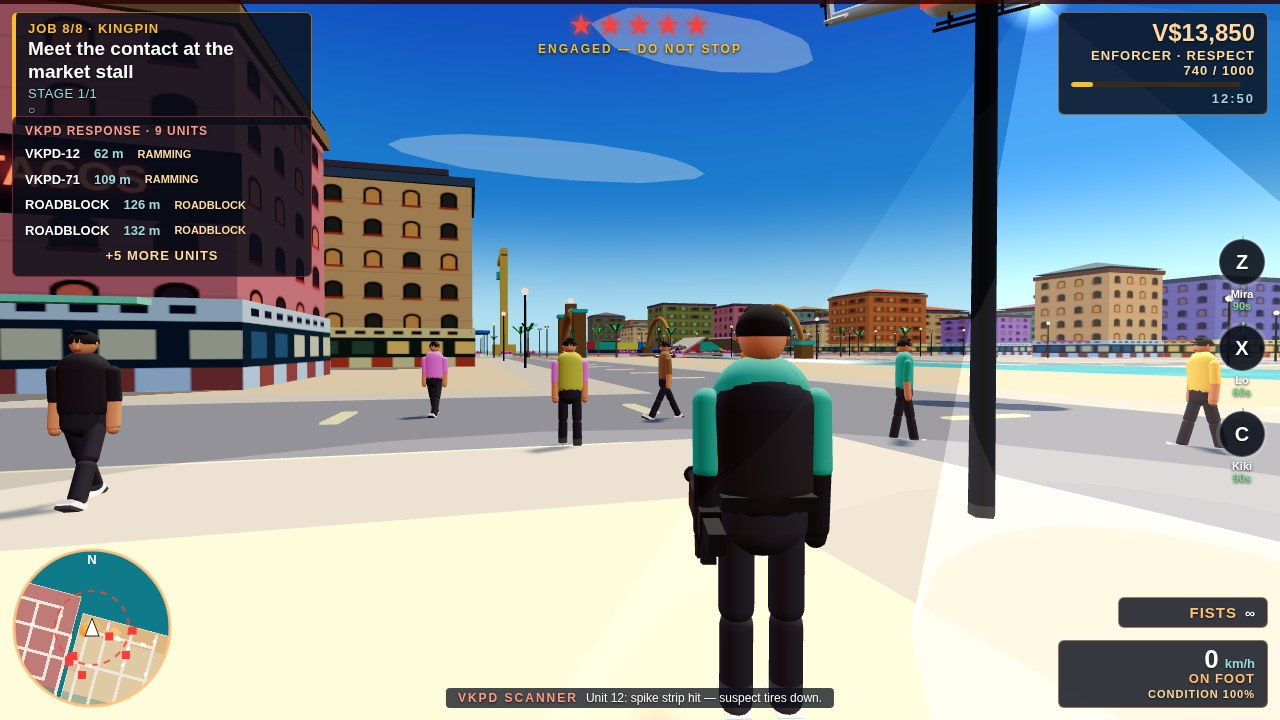
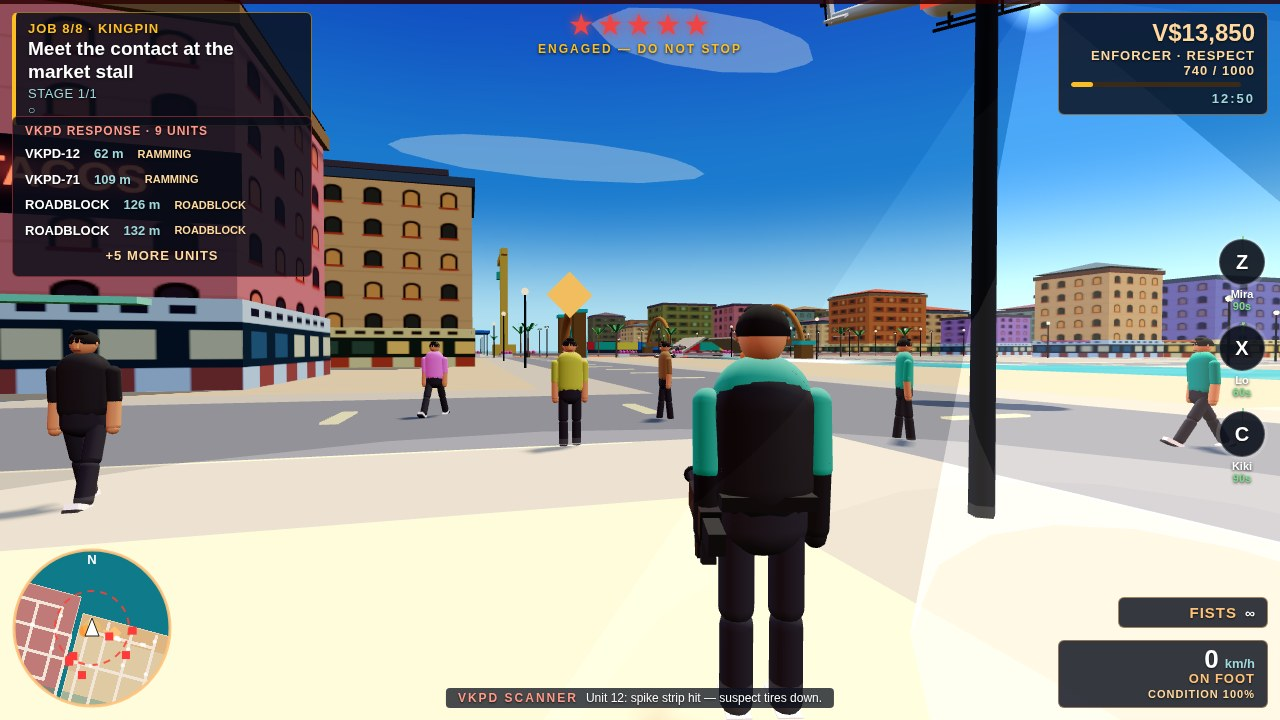
Map frame replaces career dashboard as third shot; on-foot contact re-captured
- screenshots/3-career.jpg is now the full-screen island map
  (coastline, 8 districts, gold MARKET -> PORT route along real graph
  edges, safehouse/garage markers, player at the market) — the C1 fix
  for blind re-test 9 (0-4, C1 4-0). Career evidence stays in the
  header stats (74.5% COMPLETE, ENFORCER, V$13,850) and the HUD of
  the other frames. The garage frame is untouched.
- milestones/on-foot-market.jpg re-captured at the contact-response
  moment: only the contact wears yellow (de-yellow sweep recolours
  any other yellow shirt), the contact's shirt is uniformly yellow
  (torso + arms), and a gold diamond floats above the contact's head
  as the interaction cue.
- game/src/shots.js: new 'map' branch (baked minimap tile drawn
  full-screen + district labels + route + markers; no new map
  renderer), on-foot de-yellow sweep + gold marker.
- Verify 43 PASS / 3 FAIL (same pre-existing fails, no regression).

diff --git a/game/src/shots.js b/game/src/shots.js
@@ -48,6 +48,10 @@
 //      exploration beyond driving, with the harbour on a clearer angle.
 //      The parked run car stays at the kerb behind the player; the
 //      camera is combatPose, the established on-foot third-person chase.
+//   7. map — THE MAP (third packaged shot, replaces the career
+//      dashboard): the whole archipelago full-screen — coastline,
+//      districts, a gold market-to-port route, safehouse/garage
+//      markers, the player at the market. The C1 fix.
 // The cover frame shows dialogue (Marco's KINGPIN line, pinned by
 // missionComms); the other frames clear it, so they read as pictures,
 // not chat logs.
@@ -63,6 +67,12 @@ import { fireProfileShot } from './systems/combat/tracers.js';
 // camera poses, all computed from the real sim pose.
 import { installAtmosphere } from './look/sunsetAtmosphere.js';
 import { coverPose, combatPose, garagePose } from './look/cinematicCamera.js';
+// MAP SHOT (C1 fix, 2026-11-23) — the baked minimap tile + district
+// data, reused full-screen; no new map renderer is invented.
+import { bakeMinimap } from './ui/minimapBaked.js';
+import { districtRects, MAP_MARKERS } from './world/cityLayout.js';
+import { buildViewModel } from './ui/viewModel.js';
+import { MAP_BOUNDS } from './ui/hudStyles.js';
 
 // FIX ROUND 7 — screen-space overlap check (plan requirement): project
 // the 8 corners of each car's world AABB to NDC and return the
@@ -88,6 +98,218 @@ function screenOverlap(g, a, b) {
   const oy = Math.max(0, Math.min(A.y1, B.y1) - Math.max(A.y0, B.y0));
   const areaA = (A.x1 - A.x0) * (A.y1 - A.y0);
   return areaA > 0 ? (ox * oy) / areaA : 0;
+}
+
+// ON-FOOT — a ped's shirt colour and a whole-shirt recolour. The
+// torso capsule and the upper-arm capsules share one shirt material,
+// so recolouring the torso alone leaves the arms the old colour.
+// Find that material from the torso capsule (the largest capsule in
+// the torso) and replace it on every mesh that shares it.
+function shirtColor(ped) {
+  const rig = ped.mesh && ped.mesh.userData && ped.mesh.userData.rig;
+  const torso = rig && rig.joints && rig.joints.torso;
+  if (!torso) return null;
+  let col = null;
+  torso.traverse((o) => {
+    if (col === null && o.isMesh && o.geometry && o.geometry.type === 'CapsuleGeometry' &&
+      o.geometry.parameters && o.geometry.parameters.radius > 0.1 &&
+      o.material && o.material.color) {
+      col = o.material.color.getHex();
+    }
+  });
+  return col;
+}
+function setShirtColor(ped, color) {
+  const rig = ped.mesh && ped.mesh.userData && ped.mesh.userData.rig;
+  const torso = rig && rig.joints && rig.joints.torso;
+  if (!torso) return false;
+  let shirtMat = null;
+  torso.traverse((o) => {
+    if (!shirtMat && o.isMesh && o.geometry && o.geometry.type === 'CapsuleGeometry' &&
+      o.geometry.parameters && o.geometry.parameters.radius > 0.1 &&
+      o.material && o.material.color) {
+      shirtMat = o.material;
+    }
+  });
+  if (!shirtMat) return false;
+  const mat = new THREE.MeshLambertMaterial({ color });
+  torso.traverse((o) => {
+    if (o.isMesh && o.material === shirtMat) o.material = mat;
+  });
+  return true;
+}
+
+// ON-FOOT (C1 follow-up) — if a ped's shirt is the contact yellow,
+// give them a non-yellow shirt. Returns true when a yellow shirt
+// was found and recoloured.
+function deYellow(ped, color) {
+  if (shirtColor(ped) !== 0xe8c93a) return false;
+  return setShirtColor(ped, color);
+}
+
+// MAP SHOT (C1 fix) — the market-to-port route along real graph edges:
+// market plaza -> Ocean Drive -> Marina Blvd -> drawbridge causeway ->
+// port road -> the container truck at the port.
+const MAP_ROUTE = [
+  [115, 125], [140, 125], [140, 110], [200, 110], [200, 0],
+  [230, 0], [250, 0], [250, -160], [300, -160], [380, -160], [380, -150],
+];
+const MAP_PORT = [380, -150];
+const MAP_MARKET = [115, 125];
+
+// Draw the whole of the Keys onto a canvas: the baked minimap tile
+// (water, islands, district tints, causeways, the real road graph)
+// scaled to fit, then district labels, the gold market-to-port route,
+// the safehouse/garage markers and the player arrow. No new map
+// renderer — the base is the existing baked tile, the overlays use
+// the same data and colours as the career map and the HUD minimap.
+function drawFullMap(canvas, game) {
+  const ctx = canvas.getContext('2d');
+  const W = canvas.width;
+  const H = canvas.height;
+  const minX = MAP_BOUNDS[0];
+  const minZ = MAP_BOUNDS[1];
+  const maxX = MAP_BOUNDS[2];
+  const maxZ = MAP_BOUNDS[3];
+  const worldW = maxX - minX;
+  const worldH = maxZ - minZ;
+  const scale = Math.min(W / worldW, H / worldH);
+  const ox = (W - worldW * scale) / 2 - minX * scale;
+  const oy = (H - worldH * scale) / 2 - minZ * scale;
+  const X = (x) => ox + x * scale;
+  const Z = (z) => oy + z * scale;
+  // Base: the baked tile's world region, scaled to the canvas.
+  const b = bakeMinimap();
+  ctx.drawImage(
+    b.canvas,
+    b.ox + minX * b.scale, b.oy + minZ * b.scale,
+    worldW * b.scale, worldH * b.scale,
+    X(minX), Z(minZ), worldW * scale, worldH * scale,
+  );
+  // District outlines + labels.
+  ctx.textAlign = 'center';
+  ctx.textBaseline = 'middle';
+  for (const d of districtRects()) {
+    ctx.strokeStyle = 'rgba(255, 255, 255, 0.28)';
+    ctx.lineWidth = 1;
+    ctx.strokeRect(X(d[2]), Z(d[3]), (d[4] - d[2]) * scale, (d[5] - d[3]) * scale);
+    ctx.font = 'bold 17px Arial';
+    ctx.lineWidth = 4;
+    ctx.strokeStyle = 'rgba(10, 25, 35, 0.85)';
+    ctx.strokeText(d[1], X(d[7]), Z(d[8]));
+    ctx.fillStyle = 'rgba(255, 233, 201, 0.95)';
+    ctx.fillText(d[1], X(d[7]), Z(d[8]));
+  }
+  // Gold route: dark under-stroke for contrast, then the gold line,
+  // then small chevrons along each leg pointing the way.
+  const route = (width, style) => {
+    ctx.strokeStyle = style;
+    ctx.lineWidth = width;
+    ctx.lineJoin = 'round';
+    ctx.lineCap = 'round';
+    ctx.beginPath();
+    MAP_ROUTE.forEach(([x, z], i) => {
+      if (i === 0) ctx.moveTo(X(x), Z(z));
+      else ctx.lineTo(X(x), Z(z));
+    });
+    ctx.stroke();
+  };
+  route(9, 'rgba(15, 20, 25, 0.85)');
+  route(5, '#ffc27a');
+  for (let i = 0; i < MAP_ROUTE.length - 1; i++) {
+    const [ax, az] = MAP_ROUTE[i];
+    const [bx, bz] = MAP_ROUTE[i + 1];
+    const mx = (ax + bx) / 2;
+    const mz = (az + bz) / 2;
+    const ang = Math.atan2(bz - az, bx - ax);
+    ctx.save();
+    ctx.translate(X(mx), Z(mz));
+    ctx.rotate(ang);
+    ctx.fillStyle = '#ffc27a';
+    ctx.beginPath();
+    ctx.moveTo(7, 0);
+    ctx.lineTo(-5, -6);
+    ctx.lineTo(-5, 6);
+    ctx.closePath();
+    ctx.fill();
+    ctx.restore();
+  }
+  // Markers: safehouse + garage from the career map data, the market
+  // start and the port destination.
+  const dot = (x, z, r, color, label, dy) => {
+    ctx.fillStyle = color;
+    ctx.beginPath();
+    ctx.arc(X(x), Z(z), r, 0, Math.PI * 2);
+    ctx.fill();
+    ctx.strokeStyle = '#ffffff';
+    ctx.lineWidth = 2;
+    ctx.stroke();
+    if (label) {
+      ctx.font = 'bold 15px Arial';
+      ctx.lineWidth = 4;
+      ctx.strokeStyle = 'rgba(10, 25, 35, 0.85)';
+      ctx.strokeText(label, X(x), Z(z) + dy);
+      ctx.fillStyle = '#ffffff';
+      ctx.fillText(label, X(x), Z(z) + dy);
+    }
+  };
+  for (const m of MAP_MARKERS) dot(m.x, m.z, 6, m.color, m.label, m.dy * 2.3);
+  dot(MAP_MARKET[0], MAP_MARKET[1], 10, '#ffc27a', 'MARKET', 26);
+  dot(MAP_PORT[0], MAP_PORT[1], 10, '#ff5a3c', 'PORT', 26);
+  // Player arrow at the market, pointing east along the route.
+  ctx.save();
+  ctx.translate(X(MAP_MARKET[0]), Z(MAP_MARKET[1]));
+  ctx.rotate(Math.PI / 2);
+  ctx.fillStyle = '#ffffff';
+  ctx.strokeStyle = '#222222';
+  ctx.lineWidth = 1.5;
+  ctx.beginPath();
+  ctx.moveTo(0, -13);
+  ctx.lineTo(9, 10);
+  ctx.lineTo(-9, 10);
+  ctx.closePath();
+  ctx.fill();
+  ctx.stroke();
+  ctx.restore();
+  // Compass.
+  ctx.font = 'bold 18px Arial';
+  ctx.fillStyle = '#ffffff';
+  ctx.fillText('N', W - 28, 30);
+  ctx.beginPath();
+  ctx.moveTo(W - 28, 38);
+  ctx.lineTo(W - 33, 50);
+  ctx.lineTo(W - 23, 50);
+  ctx.closePath();
+  ctx.fill();
+  void game;
+}
+
+// Build the full-screen map overlay (DOM, like the career screen):
+// header with the live career stats, the map canvas, a legend strip.
+// Hides the HUD so nothing bleeds through the map.
+function buildMapOverlay(game) {
+  const vm = buildViewModel(game);
+  const root = document.getElementById('menus') || document.body;
+  const overlay = document.createElement('div');
+  overlay.id = 'map-shot';
+  overlay.style.cssText = 'position:fixed;inset:0;z-index:1000;background:#08131c;display:flex;flex-direction:column;font-family:Arial,sans-serif;color:#fff;';
+  overlay.innerHTML = `
+    <div style="height:64px;flex:0 0 64px;display:flex;align-items:center;justify-content:space-between;padding:0 28px;background:#0a1a24;border-bottom:2px solid rgba(255,194,122,0.45);">
+      <div><span style="font-size:26px;font-weight:900;letter-spacing:2px;">VERMILION KEYS</span> <span style="font-size:16px;letter-spacing:3px;color:#ffc27a;">— THE KEYS · ISLAND MAP</span></div>
+      <div style="font-size:16px;letter-spacing:1px;">${vm.career.pctNum} COMPLETE · ${vm.career.rank} · ${vm.career.cash} · 8 DISTRICTS · 3 ISLANDS</div>
+    </div>
+    <canvas id="map-shot-canvas" width="1280" height="608" style="flex:1 1 auto;width:1280px;height:608px;display:block;"></canvas>
+    <div style="height:48px;flex:0 0 48px;display:flex;align-items:center;gap:26px;padding:0 28px;background:#0a1a24;border-top:2px solid rgba(255,194,122,0.45);font-size:15px;letter-spacing:1px;">
+      <span><i style="display:inline-block;width:26px;height:5px;background:#ffc27a;vertical-align:middle;margin-right:8px;"></i>MARKET → PORT ROUTE — DRIVE IT</span>
+      <span><i style="display:inline-block;width:12px;height:12px;border-radius:50%;background:#ffc27a;vertical-align:middle;margin-right:6px;"></i>MARKET</span>
+      <span><i style="display:inline-block;width:12px;height:12px;border-radius:50%;background:#ff5a3c;vertical-align:middle;margin-right:6px;"></i>PORT</span>
+      <span><i style="display:inline-block;width:12px;height:12px;border-radius:50%;background:#38bdf8;vertical-align:middle;margin-right:6px;"></i>GARAGE</span>
+      <span><i style="display:inline-block;width:0;height:0;border-left:7px solid transparent;border-right:7px solid transparent;border-bottom:12px solid #fff;vertical-align:middle;margin-right:6px;"></i>YOU</span>
+    </div>`;
+  root.appendChild(overlay);
+  const canvas = document.getElementById('map-shot-canvas');
+  if (canvas) drawFullMap(canvas, game);
+  game.hud.root.style.display = 'none';
 }
 
 export function stageShot(kind, game) {
@@ -826,23 +1048,17 @@ export function stageShot(kind, game) {
       contact.mesh.visible = true;
       contact.state = 'walk';
       contact.idle = 0;
-      // Yellow shirt: the torso mesh lives in the character rig
-      // (contact.mesh.userData.rig.joints.torso). contact.mesh.children[0]
-      // is the pelvis Group, so assigning .material to it does nothing
-      // (attempt 2: the contact rendered in its random shirt, not yellow).
-      // Recolour the torso's own meshes — direct children only, so the
-      // neck/head subtree and the phone are left alone. Same pattern as
+      // Yellow shirt: the whole shirt (torso + upper arms share one
+      // material) in 0xe8c93a. contact.mesh.children[0] is the pelvis
+      // Group, so assigning .material to it does nothing (attempt 2:
+      // the contact rendered in its random shirt, not yellow).
+      // setShirtColor recolours the torso and the arms together, so
+      // the shirt reads uniformly yellow (attempt 3's torso-only fix
+      // left the arms the ped's random colour). Same pattern as
       // Pedestrians.downBody (FIX ROUND 4).
-      const yellow = new THREE.MeshLambertMaterial({ color: 0xe8c93a });
-      const rig = contact.mesh.userData && contact.mesh.userData.rig;
-      const torso = rig && rig.joints && rig.joints.torso;
-      if (torso) {
-        for (const o of torso.children) {
-          if (o.isMesh && o !== contact.mesh.userData.phone) o.material = yellow;
-        }
-      } else {
+      if (!setShirtColor(contact, 0xe8c93a)) {
         const body = contact.mesh.children[0];
-        if (body) body.material = yellow;
+        if (body) body.material = new THREE.MeshLambertMaterial({ color: 0xe8c93a });
       }
     }
     // Promenade peds near the player at the port gap: the
@@ -866,6 +1082,34 @@ export function stageShot(kind, game) {
       p.state = 'walk';
       p.idle = 0;
     });
+    // ONLY the contact wears yellow (Codex: attempt 3 had two yellow
+    // shirts in frame). Sweep every ped except the contact: any whose
+    // shirt is the contact yellow gets a non-yellow shirt instead.
+    // The sweep runs after all peds are staged, so it catches the
+    // promenade peds, the market crowd and any straggler in frame.
+    const NON_YELLOW = [0x3a7ad9, 0x2ea88a, 0xd97bd9, 0xe84a3a, 0xe8e8e8, 0x8a6a3a];
+    let deYellowed = 0;
+    for (const p of g.peds.peds) {
+      if (!p || p === contact) continue;
+      if (deYellow(p, NON_YELLOW[deYellowed % NON_YELLOW.length])) deYellowed++;
+    }
+    console.log('[onfoot-deyellow] recoloured=' + deYellowed);
+    // INTERACTION CUE: a gold diamond floating above the contact's
+    // head — the one person to talk to. (Codex: attempt 3 had no
+    // visible interaction to identify the contact. The HUD dialogue
+    // and prompt are no-ops in hudV3 and the mission-comms card has
+    // no contact line, so the cue is a 3D marker in the scene itself,
+    // where the renderer guarantees it is visible.) Unlit gold, so
+    // it reads in daylight at thumbnail size.
+    if (contact) {
+      const marker = new THREE.Mesh(
+        new THREE.OctahedronGeometry(0.38),
+        new THREE.MeshBasicMaterial({ color: 0xff9a3a }),
+      );
+      marker.position.set(contact.pos.x, 2.5, contact.pos.z);
+      g.scene.add(marker);
+      console.log('[onfoot-marker] diamond at ' + contact.pos.x.toFixed(1) + ',' + contact.pos.z.toFixed(1));
+    }
     // Interceptor MID-TURN across the route (REV1 staging, same as the
     // pursuit branch): at (129,110), heading 0.70 rad, light bar
     // steady — the responding police in frame ahead of the market.
@@ -1201,6 +1445,23 @@ export function stageShot(kind, game) {
     g.camera.fov = garageCam.fov;
     g.camera.updateProjectionMatrix();
     g.menus.showGarage();
+  } else if (kind === 'map') {
+    // THE MAP (C1 fix, 2026-11-23): the whole of the Keys on one
+    // screen — the baked minimap tile full-screen, district labels,
+    // a gold MARKET → PORT route along real graph edges, and the
+    // safehouse/garage markers. This replaces the career dashboard
+    // as the third packaged shot (screenshots/3-career.jpg keeps its
+    // filename); the career evidence stays in the header stats and
+    // in the HUD of the other frames. Day light, no heat, the player
+    // at the market — the start of the route.
+    const { runCar } = stageRun(g);
+    void runCar;
+    g.lighting.setTimeOfDay('day');
+    g.police.clearHeat();
+    g.player.spawn(115, 125, Math.PI / 2);
+    // High wide camera over the archipelago, behind the overlay.
+    g.cameraCtl.setShotPose([0, 260, 260], [0, 0, 0]);
+    buildMapOverlay(g);
   }
 
   // Freeze the world, render one settled frame, dump the live state for
@@ -1223,6 +1484,7 @@ export function stageShot(kind, game) {
     : kind === 'onfoot' ? { x: 112, z: 122, r: 60 }
     : kind === 'combat' ? { x: 392, z: -162, r: 45 }
     : kind === 'career' ? { x: 0, z: 0, r: 260 }
+    : kind === 'map' ? { x: 200, z: 0, r: 300 }
     : { x: 52, z: 128, r: 45 };
   dumpState(g, kind, focus);
   g.renderer.render(g.scene, g.camera);
